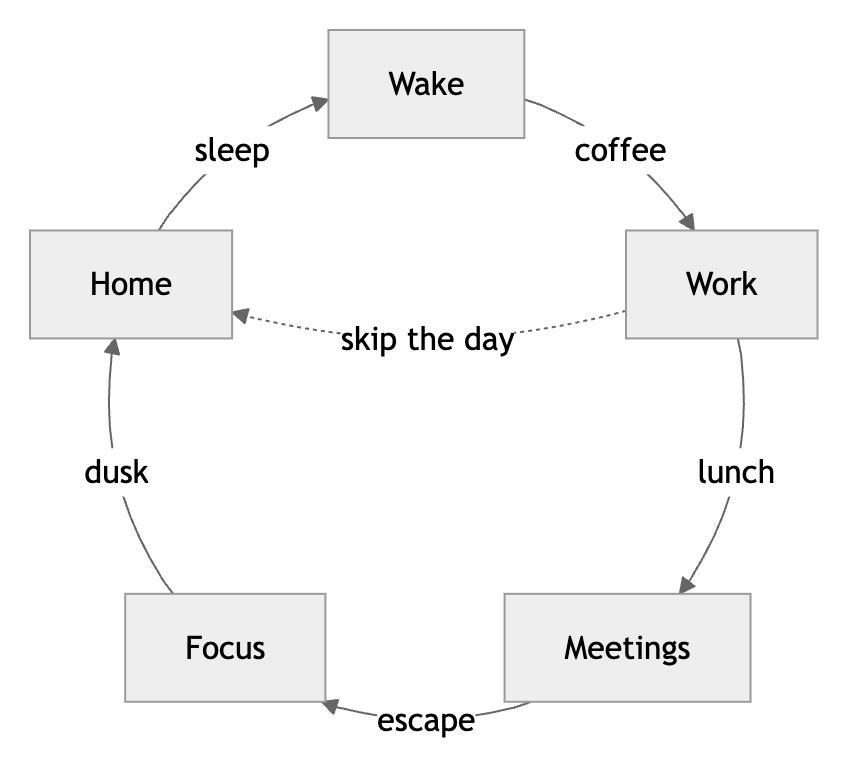
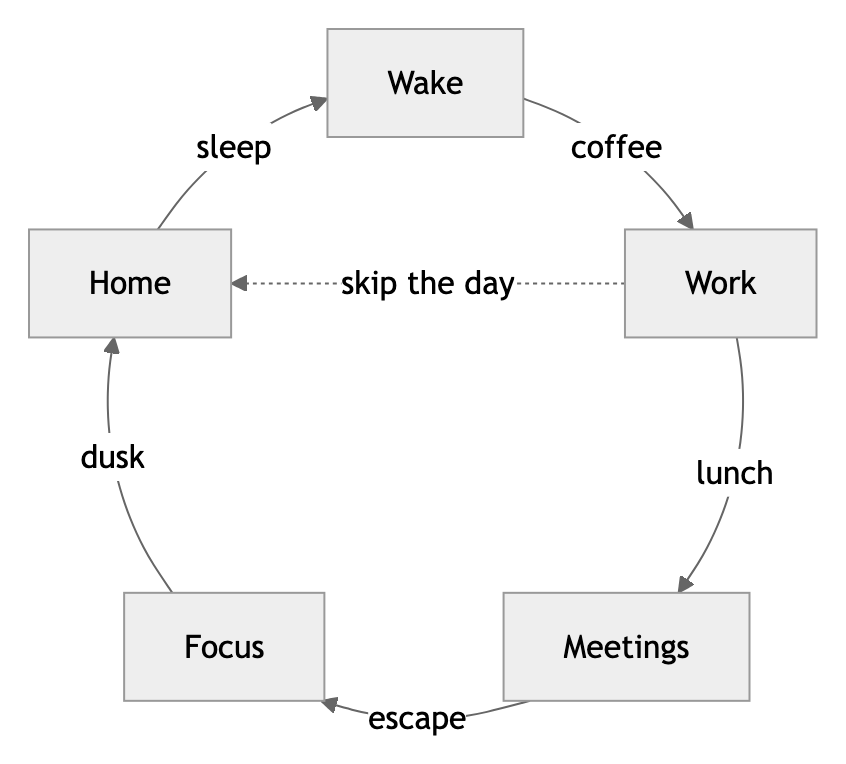
docs: chords are straight in every curve — bow and swerve leave the demo
The core now draws every chord straight and has no bow or swerve
options. The README says so, its options example uses parallelGap,
and the demo loses the bow and swerve trial suites. The one README
image with a chord, labels-and-chord.png, is re-rendered. The lockfile
still pins the old core, and needs refreshing once the core merges.

(generated using Claude Opus 5.5)

diff --git a/demo/trials.ts b/demo/trials.ts
@@ -42,17 +42,6 @@ interface Variant {
 }
 
 const suites: Record<string, Variant[]> = {
-  bow: [
-    { label: 'bow 0 — straight chords', options: { bow: 0 }, only: 'chords' },
-    { label: 'bow 0.35 — the default', options: { bow: 0.35 }, only: 'chords' },
-    { label: 'bow 0.6 — deep', options: { bow: 0.6 }, only: 'chords' },
-    { label: 'bow -0.4 — outward', options: { bow: -0.4 }, only: 'chords' },
-  ],
-  swerve: [
-    { label: 'swerve 0 — diameters stab the center', options: { swerve: 0 }, only: 'chords' },
-    { label: 'swerve 0.2', options: { swerve: 0.2 }, only: 'chords' },
-    { label: 'swerve 0.35 — wide braid', options: { swerve: 0.35 }, only: 'chords' },
-  ],
   ordering: [
     { label: 'follow-edges', options: { ordering: 'follow-edges' } },
     { label: 'input order', options: { ordering: 'input' } },
@@ -69,8 +58,8 @@ const suites: Record<string, Variant[]> = {
 };
 
 const params = new URLSearchParams(location.search);
-const suiteName = params.get('suite') ?? 'bow';
-const suite = suites[suiteName] ?? suites.bow!;
+const suiteName = params.get('suite') ?? 'ordering';
+const suite = suites[suiteName] ?? suites.ordering!;
 document.querySelector('#heading')!.textContent = `trials — ${suiteName}`;
 
 const rows = document.querySelector('#rows')!;

diff --git a/demo/main.ts b/demo/main.ts
@@ -6,11 +6,9 @@ mermaid.registerLayoutLoaders(circularLayouts);
 mermaid.initialize({ startOnLoad: false, theme: 'neutral' });
 
 const params = new URLSearchParams(location.search);
-const bow = params.get('bow');
 const ordering = params.get('ordering');
 const spacing = params.get('spacing');
 setCircularLayoutOptions({
-  ...(bow !== null && { bow: Number(bow) }),
   ...(ordering !== null && { ordering: ordering as 'follow-edges' | 'input' }),
   ...(spacing !== null && { spacing: Number(spacing) }),
 });

diff --git a/src/render.test.ts b/src/render.test.ts
@@ -20,11 +20,11 @@ describe('layoutOptionsFor', () => {
   });
 
   it('lets options set in code override what the seam derives', () => {
-    setCircularLayoutOptions({ spacing: 40, tail: 12, bow: 0.4 });
+    setCircularLayoutOptions({ spacing: 40, tail: 12, parallelGap: 14 });
     expect(layoutOptionsFor({ flowchart: { nodeSpacing: 70 } })).toEqual({
       tail: 12,
       spacing: 40,
-      bow: 0.4,
+      parallelGap: 14,
     });
   });
 

diff --git a/README.md b/README.md
@@ -259,13 +259,17 @@ flowchart LR
   A[Plan] --> B[Build] --> C[Ship] --> A
 ```
 
-Each edge between ring nodes is then a straight line from border to
-border, so a three-cycle reads as a triangle. Chords lose their bow,
-and two opposite edges become two parallel lines. Placement does not
-change. Only `linear` selects straight edges. Every other curve keeps
-the arcs. It works with `circular-ccw` too. A straight chord across a
-ring with a hub runs through the hub, where arcs would swerve around
-it.
+Each edge between ring neighbors is then a straight line from border
+to border, so a three-cycle reads as a triangle, and two opposite
+edges become two parallel lines. Placement does not change. Only
+`linear` selects straight edges. Every other curve keeps the arcs. It
+works with `circular-ccw` too.
+
+Chords, edges between ring nodes that aren't neighbors, are straight
+whatever the curve. The ring's own edges carry the cycle, and a chord
+is a shortcut across it. Two opposite chords become two parallel
+lines, with their labels stepped aside. A chord across a ring with a
+hub runs through the hub.
 
 Subgraphs:
 
@@ -314,7 +318,7 @@ knobs are set in code, next to registration:
 ```ts
 import { setCircularLayoutOptions } from 'mermaid-layout-circular';
 
-setCircularLayoutOptions({ spacing: 60, bow: 0.4 });
+setCircularLayoutOptions({ spacing: 60, parallelGap: 12 });
 ```
 
 The available options and their defaults live in `CircularLayoutOptions`
@@ -322,15 +326,15 @@ and `defaults` in `src/layout.ts` of `layout-circular`, the package
 that holds the placement math. Every default was chosen by
 rendering the alternatives and looking at them. The screenshots that
 drove those choices are committed in `trials/`, and the verdicts are
-recorded in `docs/DECISIONS.md`. When no option overrides it, `spacing`
+recorded in `docs/DECISIONS.md`. The bow and swerve trials there are
+history: those options were removed when chords became straight. When no option overrides it, `spacing`
 is seeded from mermaid's own `flowchart.nodeSpacing`. This package sets
 `tail` to 10, to clear mermaid's marker handling.
 
 ## Demo
 
 `npm run dev` serves the demo. The gallery at `/` renders every case in `demo/cases.ts`, and
-`/trials.html?suite=bow` (also `swerve`, `ordering`, `spacing`,
-`samples`) renders the same diagrams under different option values for
+`/trials.html?suite=ordering` (also `spacing`, `samples`) renders the same diagrams under different option values for
 side-by-side comparison.
 
 ## Development

diff --git a/docs/DECISIONS.md b/docs/DECISIONS.md
@@ -274,3 +274,17 @@ update the README beside it.
   curve and `linkStyle default interpolate linear` are not read. The
   demo gallery has a case. This needs a release of layout-circular
   with the `edges` option.
+- **2026-11-25 — Chords are straight; bow and swerve are gone.** The
+  owner decided that a chord is always a straight line, whatever
+  `flowchart.curve` says, and that `bow` and `swerve` are removed
+  rather than kept as opt-in. The decision and its reasons are
+  recorded in layout-circular's DECISIONS. It supersedes this file's
+  trial verdicts on chord bow (inward 0.35) and swerve (0.2).
+  `curve: linear` now changes only the edges between ring neighbors.
+  The demo's `bow` and `swerve` trial suites are removed, and the
+  trials page opens on `ordering`. The screenshots in `trials/` stay
+  as history. Of the README images, only `labels-and-chord.png` shows
+  a chord, so only it was re-rendered. It was rendered with mermaid
+  11.12, like its neighbors, since 12.3 draws nodes with a different
+  look. This needs layout-circular 0.2.0 or the commit that removes
+  the options.
